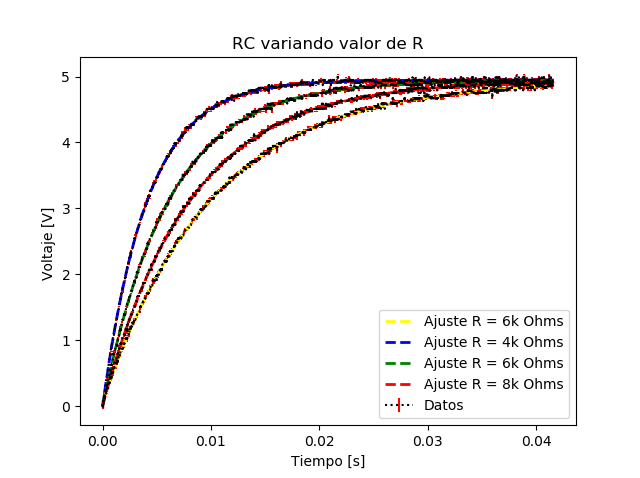
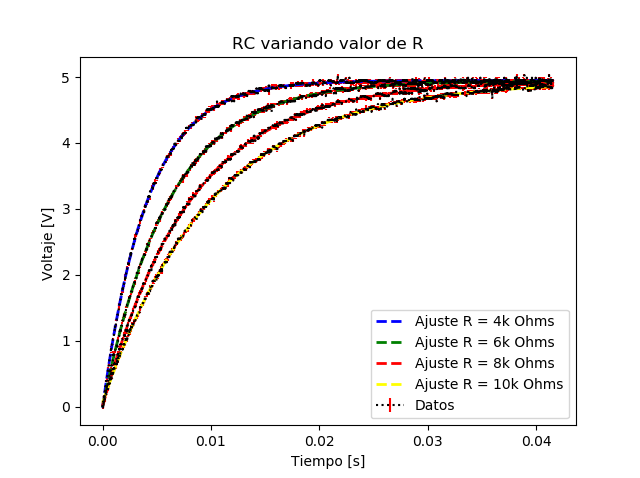
cosas

diff --git a/Labo3/Transitores/RLC_critico.py b/Labo3/Transitores/RLC_critico.py
@@ -8,6 +8,7 @@ Created on Tue Oct  8 18:03:12 2019
 import numpy as np
 import matplotlib.pyplot as plt
 from scipy.optimize import curve_fit
+from scipy import io
 import scipy
 
 
@@ -30,25 +31,26 @@ Vc = matriz[:,1]
 Vfuente = matriz[:,2]
 
 def Tiempo(t):
-    return t[422:900]
+    return t[445:900]
     
 def V(Vc):
-    return Vc[422:900]
+    return Vc[445:900]
 
 def f(t,V0,tau):
-    return V0 * np.e**(-t/tau)
+    return V0  * np.e**(-t/tau) 
 
 
-param, param_cov = curve_fit(f,Tiempo(tiempo),V(Vc), p0=[5,0.00025]) 
+param, param_cov = curve_fit(f,Tiempo(tiempo),V(Vc), p0=[2,.00025]) 
 
 
 plt.figure()
-plt.plot(Tiempo(tiempo),f(Tiempo(tiempo),param[0],param[1]), '--', color ='red', label ="Ajuste") 
-plt.scatter(Tiempo(tiempo),V(Vc),s= 5,color = "blue",alpha=0.4, label ="Datos")
+plt.plot(Tiempo(tiempo)*1000,f(Tiempo(tiempo),param[0],param[1]), '--', color ='red', label ="Ajuste") 
+plt.scatter(Tiempo(tiempo)*1000,V(Vc),s= 5,color = "blue",alpha=0.4, label ="Datos")
+
 #plt.scatter(tiempo,Vfuente,color='orange',s= 0.5)
 #plt.ylim(0,5)
 plt.title('Transitor RLC Critico')
-plt.xlabel('Tiempo [s]')
+plt.xlabel('Tiempo [ms]')
 plt.ylabel('Corriente [A] ')
 plt.legend()
 plt.show()

diff --git a/Labo3/Transitores/RC variando R/grafSuperpuestos.py b/Labo3/Transitores/RC variando R/grafSuperpuestos.py
@@ -48,9 +48,6 @@ def f10(t,V0,Vc0,tau):
 param10, param_cov10 = curve_fit(f10,t10,V10, p0=[5,0.07,0.01]) #p0 son los parametros de estimacion
 
 
-plt.plot(t10,f10(t10,param10[0],param10[1],param10[2]), '--',lw = 2,color = "yellow",label = "Ajuste R = 6k Ohms")
-#plt.scatter(t10,V10,s= 0.1,color = "red")
-plt.errorbar(t10,V10,yerr=err1, fmt=':',color ='black', ecolor = 'red')
 
 data4 = np.loadtxt('R4k.txt')
 matriz4 = np.array(data4)
@@ -104,6 +101,12 @@ param, param_cov = curve_fit(f,t,V, p0=[5,0.07,0.01]) #p0 son los parametros de 
 
 plt.plot(t,f(t,param[0],param[1],param[2]),  '--',color = "red",lw = 2,label = "Ajuste R = 8k Ohms")
 plt.errorbar(t,V,yerr=err2, fmt=':',color ='black', ecolor = 'red')
+
+
+
+plt.plot(t10,f10(t10,param10[0],param10[1],param10[2]), '--',lw = 2,color = "yellow",label = "Ajuste R = 10k Ohms")
+#plt.scatter(t10,V10,s= 0.1,color = "red")
+plt.errorbar(t10,V10,yerr=err1, fmt=':',color ='black', ecolor = 'red')
 plt.title("RC variando valor de R")
 plt.xlabel('Tiempo [s]')
 plt.ylabel('Voltaje [V] ')

diff --git a/Labo3/Transitores/RC variando R/R10k.py b/Labo3/Transitores/RC variando R/R10k.py
@@ -37,3 +37,33 @@ plt.plot(t,f(t,param[0],param[1],param[2]))
 plt.scatter(t,V,s= 0.1,color = "red")
 plt.show()
 
+
+def chi_square(y_data, y_model, sigma):
+    return np.sum((y_data/sigma - y_model/sigma)**2)
+
+def r_chi_square(chi, y_data, dof):
+    nu = len(y_data) - 1 - dof
+    if nu < 1:
+        raise ValueError('length of y_data - 1 - dof should be greater than 1')
+    return chi / nu
+
+def p_value(chi, y_data, dof):
+    nu = len(y_data) - 1 - dof
+    if nu < 1:
+        raise ValueError('length of y_data - 1 - dof should be greater than 1')
+    
+    p = 1 - st.chi2.cdf(chi, nu)
+    return p
+
+fit = f(t,param[0],param[1],param[2])
+
+#sigma = np.sqrt(param_cov[0,0])
+sigma = 0.021294271318071607 
+
+chi = chi_square(V,fit,sigma)
+r = r_chi_square(chi, V, len(param))
+p =  p_value(chi, V, len(param))
+
+print(f'Chi square: {chi:.11f}')
+print(f'r: {r:.11f}')
+print(f'p: {p:.11f}')

diff --git a/Labo3/Transitores/RC variando R/R6k.py b/Labo3/Transitores/RC variando R/R6k.py
@@ -37,3 +37,33 @@ plt.plot(t,f(t,param[0],param[1],param[2]))
 plt.scatter(t,V,s= 0.1,color = "red")
 plt.show()
 
+
+def chi_square(y_data, y_model, sigma):
+    return np.sum((y_data/sigma - y_model/sigma)**2)
+
+def r_chi_square(chi, y_data, dof):
+    nu = len(y_data) - 1 - dof
+    if nu < 1:
+        raise ValueError('length of y_data - 1 - dof should be greater than 1')
+    return chi / nu
+
+def p_value(chi, y_data, dof):
+    nu = len(y_data) - 1 - dof
+    if nu < 1:
+        raise ValueError('length of y_data - 1 - dof should be greater than 1')
+    
+    p = 1 - st.chi2.cdf(chi, nu)
+    return p
+
+fit = f(t,param[0],param[1],param[2])
+
+#sigma = np.sqrt(param_cov[0,0])
+sigma = 0.021294271318071607 
+
+chi = chi_square(V,fit,sigma)
+r = r_chi_square(chi, V, len(param))
+p =  p_value(chi, V, len(param))
+
+print(f'Chi square: {chi:.11f}')
+print(f'r: {r:.11f}')
+print(f'p: {p:.11f}')

diff --git a/Labo3/Transitores/RC variando R/R8k.py b/Labo3/Transitores/RC variando R/R8k.py
@@ -37,3 +37,33 @@ plt.plot(t,f(t,param[0],param[1],param[2]))
 plt.scatter(t,V,s= 0.1,color = "red")
 plt.show()
 
+
+def chi_square(y_data, y_model, sigma):
+    return np.sum((y_data/sigma - y_model/sigma)**2)
+
+def r_chi_square(chi, y_data, dof):
+    nu = len(y_data) - 1 - dof
+    if nu < 1:
+        raise ValueError('length of y_data - 1 - dof should be greater than 1')
+    return chi / nu
+
+def p_value(chi, y_data, dof):
+    nu = len(y_data) - 1 - dof
+    if nu < 1:
+        raise ValueError('length of y_data - 1 - dof should be greater than 1')
+    
+    p = 1 - st.chi2.cdf(chi, nu)
+    return p
+
+fit = f(t,param[0],param[1],param[2])
+
+#sigma = np.sqrt(param_cov[0,0])
+sigma = 0.021294271318071607 
+
+chi = chi_square(V,fit,sigma)
+r = r_chi_square(chi, V, len(param))
+p =  p_value(chi, V, len(param))
+
+print(f'Chi square: {chi:.11f}')
+print(f'r: {r:.11f}')
+print(f'p: {p:.11f}')

diff --git a/Labo3/Transitores/RCAgustin.py b/Labo3/Transitores/RCAgustin.py
@@ -7,7 +7,7 @@ Created on Tue Oct  8 17:10:55 2019
 import numpy as np
 import matplotlib.pyplot as plt
 from scipy.optimize import curve_fit
-
+import scipy.stats as st
 
 
 # C = 0.01microF
@@ -44,14 +44,23 @@ def r_chi_square(chi, y_data, dof):
         raise ValueError('length of y_data - 1 - dof should be greater than 1')
     return chi / nu
 
+def p_value(chi, y_data, dof):
+    nu = len(y_data) - 1 - dof
+    if nu < 1:
+        raise ValueError('length of y_data - 1 - dof should be greater than 1')
+    
+    p = 1 - st.chi2.cdf(chi, nu)
+    return p
+
 fit = f(t,param[0],param[1],param[2])
 
 #sigma = np.sqrt(param_cov[0,0])
-sigma = 0.00095
+sigma = 0.021294271318071607 
 
 chi = chi_square(V,fit,sigma)
 r = r_chi_square(chi, V, len(param))
-
+p =  p_value(chi, V, len(param))
 
 print(f'Chi square: {chi:.11f}')
 print(f'r: {r:.11f}')
+print(f'p: {p:.11f}')

diff --git a/Labo3/Transitores/RC variando R/sigma.py b/Labo3/Transitores/RC variando R/sigma.py
@@ -1,0 +1,36 @@
+# -*- coding: utf-8 -*-
+"""
+Created on Thu Nov 21 10:29:32 2019
+
+@author: Luna Kadysz
+"""
+
+import numpy as np
+import matplotlib.pyplot as plt
+import statistics 
+
+
+# C = 0.01microF
+# R = 4000 Ohms
+# frec = 300Hz
+# Vpicopico = 5V con offset de 2.5V
+
+
+data = np.loadtxt('R4k.txt')
+matriz = np.array(data)
+
+tiempo = matriz[:,0]
+Vc = matriz[:,1]
+t = tiempo[1200:2240]
+V = Vc[1200:2240]
+    
+plt.scatter(t,V,s= 0.1,color = "red")
+
+std = statistics.stdev(V)
+sigma = np.sqrt(std**2 + 0.005**2)
+
+print("Standard Deviation is % s " 
+                % (statistics.stdev(V))) 
+
+print("Sigma is % s " 
+                % sigma) 

diff --git a/Labo3/Transitores/RLC_sobre.py b/Labo3/Transitores/RLC_sobre.py
@@ -52,6 +52,6 @@ plt.errorbar(Tiempo(tiempo)*1000,V(Vc),yerr=err, fmt = ':',color ='black',label 
 #plt.ylim(0,5)
 plt.title('Transitor Sobreamortiguado')
 plt.xlabel('Tiempo [ms]')
-plt.ylabel('Voltaje [V] ')
+plt.ylabel('Corriente [a] ')
 plt.legend()
 plt.show()

diff --git a/Labo3/Transitores/RLC_sub.py b/Labo3/Transitores/RLC_sub.py
@@ -63,6 +63,6 @@ plt.errorbar(Tiempo(tiempo)*1000,V(Vc),yerr=err, fmt='.',color ='black',label ="
 #plt.ylim(0,5)
 plt.title('Transitor Subamortiguado')
 plt.xlabel('Tiempo [ms]')
-plt.ylabel('Voltaje [V] ')
+plt.ylabel('Corriente [A] ')
 plt.legend()
 plt.show()
